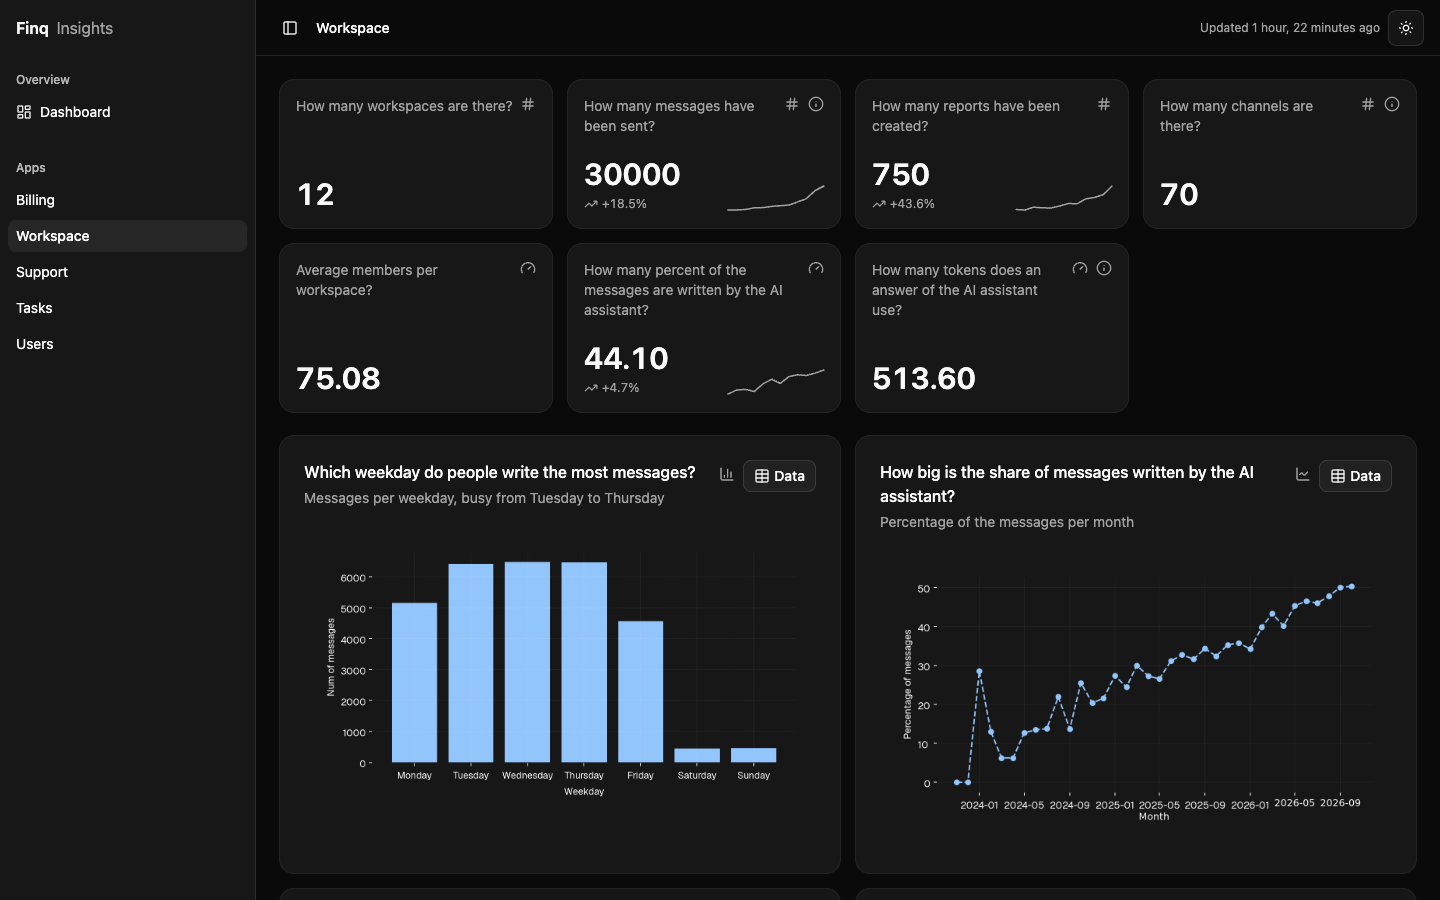
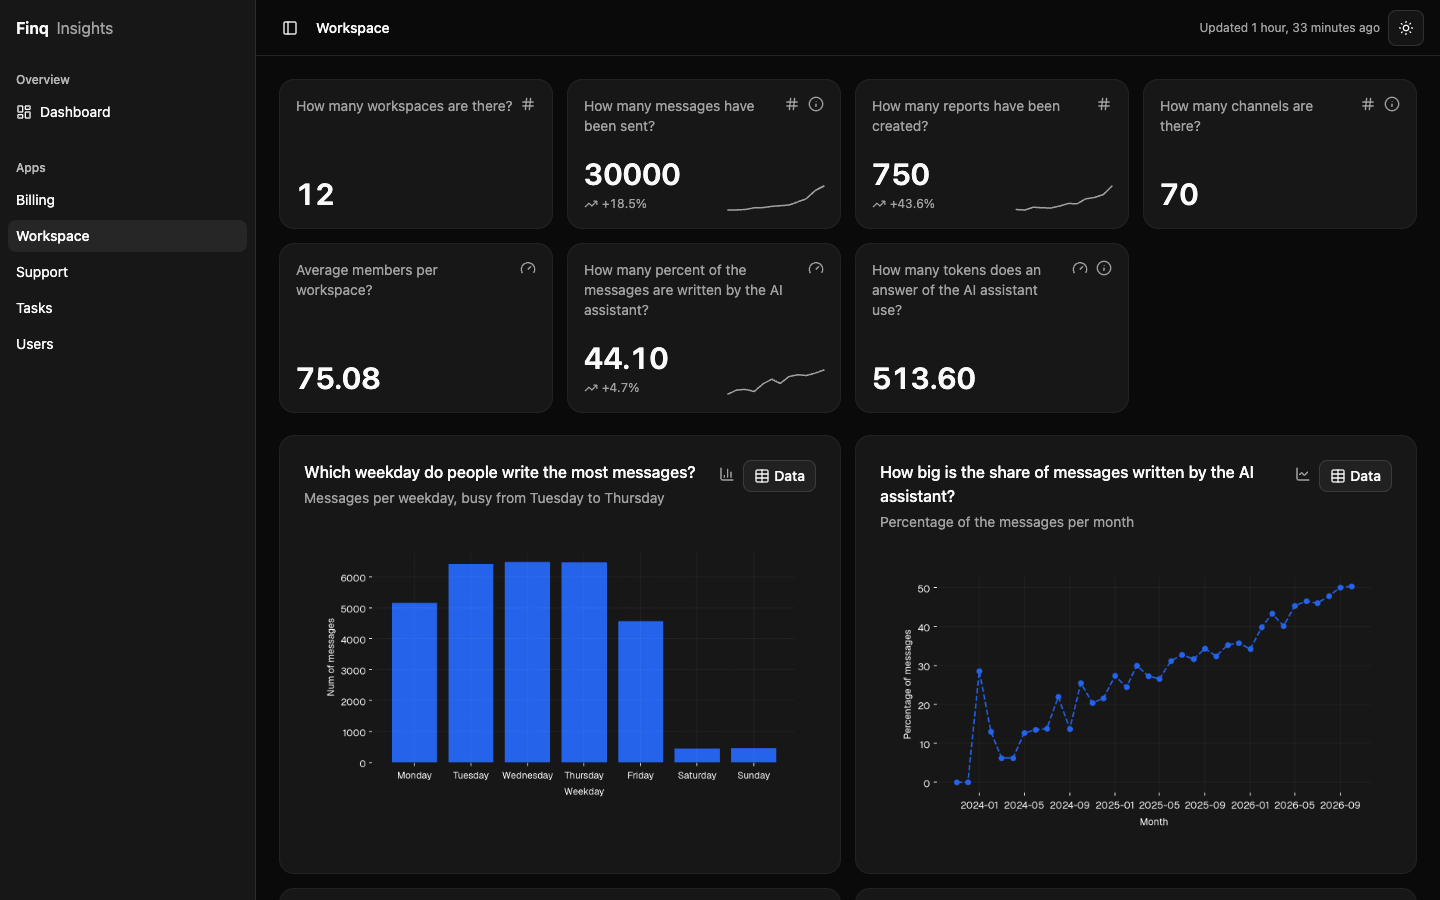
fix: use the same chart color in dark mode instead of a lighter one

diff --git a/django_insights/theme.py b/django_insights/theme.py
@@ -78,7 +78,6 @@ def from_accent(accent: str) -> dict[str, dict[str, str]]:
         key: accent if step == 0 else lightness(accent, step)
         for key, step in zip(CHART_KEYS, CHART_STEPS, strict=True)
     }
-    dark_primary = lightness(accent, 0.12)
     return {
         'light': {
             'primary': accent,
@@ -88,10 +87,10 @@ def from_accent(accent: str) -> dict[str, dict[str, str]]:
             **charts,
         },
         'dark': {
-            'primary': dark_primary,
-            'primary_foreground': readable_on(dark_primary),
-            'sidebar_primary': dark_primary,
-            'sidebar_primary_foreground': readable_on(dark_primary),
+            'primary': accent,
+            'primary_foreground': readable_on(accent),
+            'sidebar_primary': accent,
+            'sidebar_primary_foreground': readable_on(accent),
             **charts,
         },
     }
@@ -149,7 +148,7 @@ def chart_colors(mode: str) -> dict[str, str]:
     """The colors of a chart, taken from the same palette as the dashboard"""
     colors = palette(mode)
     return {
-        'primary': colors['chart_3'] if mode == 'light' else colors['chart_1'],
+        'primary': colors['chart_3'],
         'face': colors['card'],
         'edge': colors['card'],
         'tick': colors['foreground'],

diff --git a/tests/test_theme.py b/tests/test_theme.py
@@ -78,7 +78,7 @@ def test_any_hex_color_is_an_accent_with_a_chart_ramp():
     light, dark = theme.palette('light'), theme.palette('dark')
 
     assert light['primary'] == light['chart_3'] == '#16a34a'
-    assert lightness(dark['primary']) > lightness(light['primary'])
+    assert dark['primary'] == '#16a34a'
     ramp = [lightness(light[key]) for key in theme.CHART_KEYS]
     assert ramp == sorted(ramp, reverse=True)
     assert light['sidebar_primary'] == '#16a34a'
@@ -107,9 +107,9 @@ def test_the_charts_use_the_colors_of_the_dashboard():
 
 
 @override_settings(INSIGHTS_THEME='blue')
-def test_the_chart_color_is_the_middle_of_the_ramp_in_light_and_the_lightest_in_dark():
+def test_the_chart_color_is_the_middle_of_the_ramp_in_light_and_dark():
     assert get_theme('light').primary == theme.palette('light')['chart_3']
-    assert get_theme('dark').primary == theme.palette('dark')['chart_1']
+    assert get_theme('dark').primary == theme.palette('dark')['chart_3']
 
 
 @pytest.mark.parametrize('name', [*theme.ACCENT_NAMES, *theme.BASE_NAMES])
